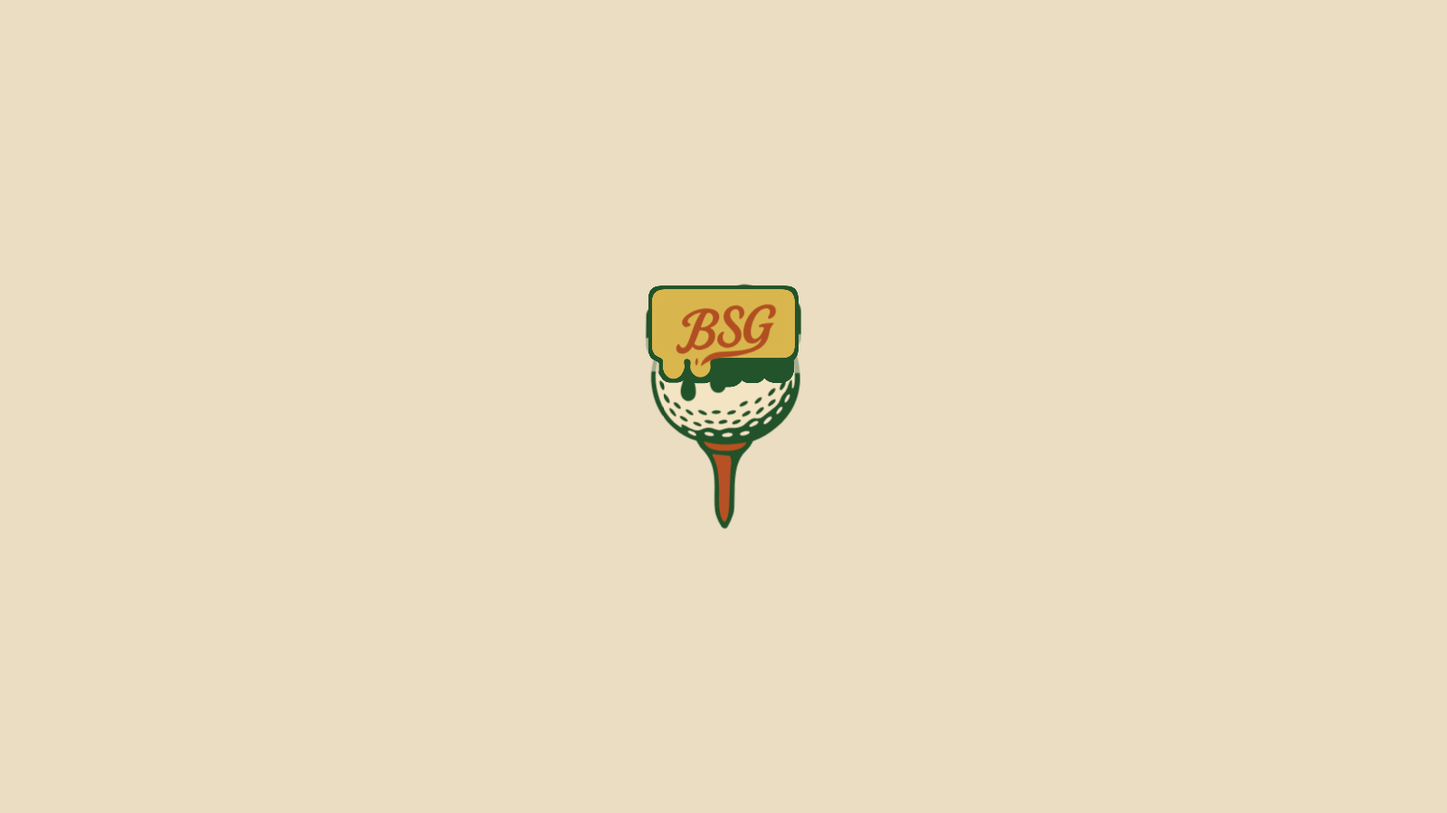
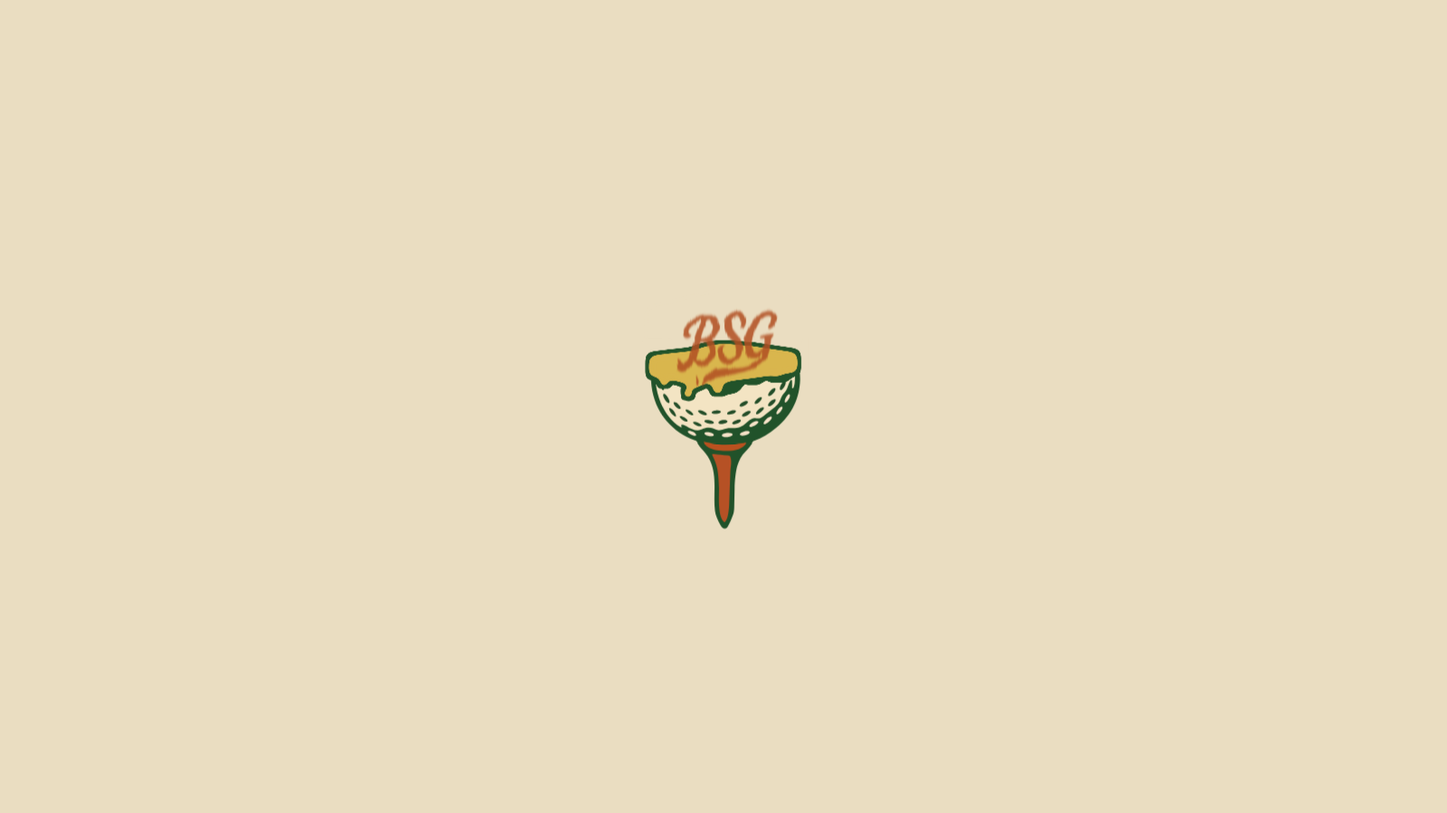
GSAP intro v3.1: no arrival bounce, BSG truly melts, gentle ending
Arrival is a smooth fade+settle (no back-ease overshoot or squash). BSG
sags/stretches downward with animated vertical smear blur and evaporates
mid-melt instead of shimmering. Final wordmark is smaller (0.44) with a
slow sine fade-up — no billboard slam. Film now ~9.8s.

Claude-Session: https://claude.ai/code/session_01XoixdVZHUDRa8j4FLVb79L

Changed region(s): [[0.4375, 0.3422, 0.5625, 0.4978]]

diff --git a/gsap/intro.html b/gsap/intro.html
@@ -30,7 +30,8 @@
     <filter id="lettersMelt" x="-40%" y="-40%" width="180%" height="180%">
       <feTurbulence type="turbulence" baseFrequency="0.012 0.03" numOctaves="2" result="n"/>
       <feDisplacementMap id="dispMap" in="SourceGraphic" in2="n" scale="0"
-        xChannelSelector="R" yChannelSelector="G"/>
+        xChannelSelector="R" yChannelSelector="G" result="disp"/>
+      <feGaussianBlur id="bsgBlur" in="disp" stdDeviation="0 0"/>
     </filter>
     <clipPath id="coatClip">
       <path id="coatWave" d="M1520 600 H1968 V1062 q-37 24 -75 0 t-75 0 t-75 0 t-75 0 t-74 0 t-74 0 Z"/>
@@ -130,7 +131,7 @@
   </g>
 
   <!-- wordmark: the sole hero of the final act, centered -->
-  <g id="wmMove" transform="translate(493.3,275) scale(0.48)" fill="#EADDC1">
+  <g id="wmMove" transform="translate(518.8,280.3) scale(0.44)" fill="#EADDC1">
     <g id="wmButter"><path d="M 259.7692,201.6514000000002 C 259.3474,210.423 260.8404,221.3208000000002 269.401,229.8479000000002 C 283.8932,244.09090000000015 307.5814,240.0436000000002 307.7691,233.65120000000002 C 307.8071,232.26930000000016 307.0431,230.79560000000015 305.9705,228.52250000000004 C 300.7264,218.46620000000007 294.5653,192.66640000000007 327.5246,163.4067 C 337.2083,155.14790000000016 349.0648,148.9996000000001 360.3872,145.2695000000001 C 386.4832,136.59890000000019 431.9107,132.24370000000022 455.989,148.4313000000002 C 480.6074,164.98160000000007 475.77,199.67420000000016 442.0003,211.3981000000001 C 421.9676,218.35260000000017 399.7689,215.72860000000014 399.7689,223.6514000000002 C 399.7689,229.30710000000022 410.2486,227.97250000000008 421.8435,236.3189000000002 C 447.5752,254.97400000000016 435.5861,297.73710000000005 396.8864,298.9090000000001 C 367.2445,299.65880000000016 355.7509,292.2759000000001 347.4643,288.6278000000002 C 351.9626,283.5458000000001 359.411,274.3628000000001 364.7764,266.65840000000003 C 384.9043,238.1418000000001 402.0758,191.4529 424.5826,169.09750000000008 C 427.4855,166.21380000000022 433.3127,162.0186000000001 428.343,158.8996000000002 C 418.6823,152.93950000000018 402.2405,156.6482000000001 390.026,166.90800000000013 C 368.1147,186.0282000000002 355.1406,210.7909000000002 342.2923,236.37760000000003 C 334.6503,251.32960000000003 323.5493,268.49350000000004 310.1372,282.2696000000001 C 282.7474,309.91020000000003 258.0199,285.6514000000002 253.7691,285.6514000000002 C 244.9392,285.67520000000013 247.1794,305.1160000000002 261.5244,316.1490000000001 C 276.8859,327.7524000000001 301.0224,324.6886000000002 316.6464,316.1813000000002 C 321.7215,313.4544000000001 326.8431,309.9896000000001 333.144,305.7605000000001 C 359.1882,322.9522000000002 405.8612,327.4131000000002 435.8472,315.6238000000001 C 446.0383,311.74440000000004 458.282,303.76840000000016 464.531,294.78970000000004 C 484.9243,265.0381000000002 472.0054,237.89750000000004 455.2534,229.55770000000007 C 453.8353,228.9380000000001 453.8591,227.9195000000002 455.2534,227.55780000000004 C 466.7066,225.12430000000018 489.7613,215.31950000000006 501.317,198.62800000000016 C 510.1121,185.5844000000002 511.3568,170.11350000000016 505.2866,156.88160000000016 C 499.1511,144.18210000000022 487.8737,136.04440000000022 475.6572,130.34030000000007 C 454.1888,120.31630000000018 427.1618,117.3778000000002 402.7691,117.65130000000022 C 365.1919,118.3072000000002 335.8077,128.00790000000006 312.1843,140.09000000000015 C 293.6679,149.34000000000015 261.5037,173.95810000000006 259.7692,201.6514000000002" fill-rule="evenodd"/>
 <path d="M 848.2442,258.8903 C 850.6298,250.9947000000002 856.1075,240.73410000000013 859.5927,235.08550000000014 C 864.4022,227.14930000000004 870.3045,221.58850000000007 875.408,218.9728 C 883.3113,215.00380000000018 890.3239,216.42560000000003 891.7047,222.55130000000008 C 893.8426,234.34000000000015 880.9319,249.50620000000004 869.1746,256.01160000000004 C 863.4268,259.2035000000001 855.6395,261.41200000000003 850.2894,261.69600000000014 C 847.6347,261.81770000000006 847.5041,261.3111000000001 848.2442,258.8903 M 685.3195,292.49530000000004 C 678.6227,293.1161000000002 669.3812,290.5131000000001 672.0987,278.5951 C 674.3426,268.71260000000007 696.1017,227.4150000000002 699.1166,221.4761000000001 C 700.8585,218.15210000000002 700.8673,218.57580000000007 706.4379,218.52980000000002 C 720.1939,218.53120000000013 745.3514,218.4036000000001 760.0694,218.39430000000016 C 761.8626,218.38120000000004 762.2586,218.50310000000013 761.021,221.06510000000003 C 753.9077,234.9299000000001 746.6956,250.58280000000013 733.8776,264.4003 C 725.4969,273.4598000000001 705.9648,290.4561000000001 685.3195,292.49530000000004 M 680.6517,198.97950000000014 C 667.9434,199.49500000000012 649.5347,195.36870000000022 649.7691,212.65130000000022 C 650.3083,220.91200000000003 658.9037,218.97710000000006 668.4024,218.97710000000006 C 670.3302,218.99880000000007 670.8212,219.4856000000002 668.9049,222.95720000000006 L 660.0427,239.3661000000002 C 654.3703,250.1777000000002 649.4428,262.009 639.9828,272.8180000000002 C 634.5822,278.89020000000005 628.4514,283.9398000000001 619.34,288.0500000000002 C 616.6324,289.1666 612.4462,290.40280000000007 608.4094,289.6491000000001 C 604.1812,288.6722000000002 601.9722,285.35390000000007 601.7769,281.36080000000015 C 601.3848,272.9773 606.9572,260.83180000000016 611.7035,250.69960000000015 C 616.758,240.2293000000002 624.5796,225.3578 629.8758,215.32070000000022 C 633.9628,207.34900000000016 634.7523,201.89380000000006 624.3242,199.26780000000008 C 619.6612,198.14070000000015 612.8331,197.3538000000001 608.381,200.80280000000016 C 601.3006,206.69680000000017 595.7062,220.08460000000014 592.1082,227.01020000000017 C 582.0508,247.15800000000013 569.9537,273.23760000000016 546.8471,288.1512 C 539.0963,293.0245000000002 528.558,294.7092 528.5112,282.14380000000006 C 528.495,273.13070000000016 537.7856,255.27420000000006 545.6591,241.14340000000016 C 550.8023,232.07370000000014 557.5762,220.5101000000002 563.2027,210.5204000000001 C 565.1566,207.04030000000012 564.8689,202.46460000000002 557.7364,199.69840000000022 C 546.4672,195.6020000000001 538.3882,202.15800000000013 531.9675,211.8497000000002 C 528.431,217.2094000000002 525.6332,221.56190000000015 521.077,228.9593000000002 C 511.2125,246.68460000000005 492.1166,277.8453000000002 497.3355,299.13210000000004 C 502.2306,317.72950000000014 522.4266,319.10810000000015 537.3249,312.58220000000006 C 552.7106,305.08310000000006 562.0181,295.4485000000002 572.5111,284.4325000000001 C 568.4777,305.3022000000001 586.0485,336.3498000000002 632.1699,298.13030000000003 C 635.1783,295.51210000000015 639.3909,291.63530000000014 641.488,289.3392000000001 C 643.4785,322.6562000000001 677.2626,319.5276000000001 697.2137,310.0083000000002 C 710.0178,303.98580000000015 724.9612,291.44990000000007 734.2965,282.6319000000001 C 733.4994,303.62530000000015 740.3136,316.5575000000001 760.3316,316.2763000000002 C 773.1386,315.9716000000001 781.7377,311.22230000000013 789.7961,306.4048 C 799.1541,300.7433000000001 808.5129,292.52380000000016 813.5813,287.9480000000001 C 817.0033,320.37660000000005 851.9984,321.65020000000004 878.1508,308.5254000000002 C 887.811,303.77600000000007 894.9623,297.90470000000005 901.6257,292.46230000000014 C 902.4069,291.92920000000004 903.4929,292.24250000000006 903.187,293.20600000000013 C 902.2694,296.1333000000002 896.0879,307.26840000000016 898.7284,312.5091000000002 C 901.2498,317.5136 912.2547,314.7785000000001 915.874,313.59640000000013 C 919.6809,312.3560000000002 922.3948,310.5373000000002 924.7518,308.0816000000002 C 930.7814,301.54140000000007 934.3281,290.8765000000001 943.4798,276.8597000000002 C 954.6109,257.7012000000002 971.2397,245.365 987.4602,231.52630000000022 C 988.3585,232.33990000000017 989.8021,233.98450000000003 992.3888,235.54050000000007 C 998.7982,239.10680000000002 1005.8343,238.91140000000019 1012.235,237.10180000000014 C 1021.7993,234.30910000000017 1027.2882999999997,227.59580000000005 1029.0112,220.84730000000013 C 1031.6047,210.49610000000007 1025.0563,199.08850000000007 1010.7689,199.65130000000022 C 1002.4265,200.24880000000007 995.8759,205.41560000000004 991.4593,209.3416000000002 C 982.2019,217.58500000000004 973.9083,225.8162000000002 965.7556,233.44990000000007 C 964.7904,234.3465000000001 963.754,233.8624000000002 964.2047,232.7179000000001 C 968.2311,223.36260000000016 978.2158,209.54420000000005 977.2849,202.83720000000017 C 976.4617,199.75930000000017 972.7027,197.14350000000013 963.769,197.14350000000013 C 958.8912,197.16850000000022 954.3682,197.71350000000007 951.5137,199.70090000000005 C 946.1577,203.81400000000008 944.0113,210.92330000000015 939.7638,219.06040000000007 C 934.4367,229.71440000000007 929.7763,239.4050000000002 922.191,249.2528000000002 C 915.5971,258.08500000000004 909.1227,265.6898000000001 898.5297,274.1073000000001 C 887.4227,282.6835000000001 875.0775,291.0108 859.6052,290.6358 C 851.3923,290.2488000000001 846.1831,285.3003000000001 846.1831,276.60450000000014 C 853.3363,276.55780000000004 863.6173,275.03840000000014 870.1999,273.2194000000002 C 889.1379,267.77210000000014 909.9156,252.87720000000013 915.4811,232.38490000000002 C 919.3598,217.3217000000002 913.6661,201.1748 892.7691,199.65130000000022 C 876.405,198.76070000000004 860.4,204.34450000000015 846.4518,215.33400000000006 C 833.5091,226.3112000000001 823.8637,238.77480000000014 818.1388,255.02100000000019 C 815.6001,262.40020000000004 815.4626,267.24710000000005 813.5793,270.53700000000003 C 812.0483,272.9947000000002 808.8089,275.4393 802.4216,280.1980000000001 C 794.7133,285.99210000000016 776.3683,296.58090000000016 767.9401,289.5422000000001 C 762.2371,284.21350000000007 766.5925,272.67520000000013 771.2147,263.07590000000005 C 778.174,248.6241 785.5809,234.19960000000015 792.8269,219.88490000000002 C 793.3272,218.9574 793.8811,218.61910000000012 795.3548,218.6328000000001 C 801.4946,218.65960000000018 813.6777,218.7831000000001 820.9236,218.66580000000022 C 824.724,218.57940000000008 828.2092,218.2962 830.5948,215.0331000000001 C 832.9156,211.69010000000003 833.7691,207.02030000000013 833.7691,203.65130000000022 C 833.5704,200.09400000000005 831.4574,198.93250000000012 827.7917,198.95850000000019 L 804.4875,199.19010000000003 C 809.2103,190.26430000000005 813.9243,182.05330000000004 817.2147,175.51570000000015 C 819.7095,170.62970000000018 820.7186,166.73940000000016 817.8454,164.39340000000016 C 814.4753,161.7378000000001 805.216,160.1786000000002 799.2388,160.7518 C 796.284,161.10580000000004 793.6747,162.10120000000006 791.3078,164.75910000000022 C 788.7648,167.6944000000001 786.2295,172.62920000000008 783.8427,176.9869000000001 C 780.0199,184.3036000000002 775.3992,192.32520000000022 771.6869,199.20230000000015 L 712.2223,199.35420000000022 C 717.8681,188.5693000000001 726.7011,173.9126000000001 727.1481,168.5286000000001 C 727.3298,164.2610000000002 724.0173,161.27360000000022 710.5031,160.70810000000006 C 706.0561,160.5558000000001 702.8402,161.16560000000004 699.7966,164.28740000000016 C 696.2905,168.04960000000005 693.4116,173.1817000000001 691.3355,176.91290000000004 C 688.0827,183.19680000000017 685.3133,188.98390000000018 680.6517,198.97950000000014" fill-rule="evenodd"/></g>
     <g id="wmSticks"><path d="M 381.8112,386.86660000000006 C 382.1862,442.2735 450.0173,457.9235000000001 428.1103,503.3686 C 420.3632,517.5497000000001 407.8327,526.1401000000001 389.5299,527.1011000000001 C 374.0236,527.7573000000001 357.3601,523.3234000000001 349.7607,505.82370000000014 C 341.7817,486.75930000000017 348.7646,466.2968000000001 366.2235,453.5210000000002 C 370.5282,450.3343000000002 376.5302,447.71090000000004 376.5067,443.9136000000001 C 376.3426,436.6169000000002 351.2186,432.9480000000001 330.9755,446.0308 C 302.9309,464.79840000000013 300.1371,506.5289 331.0129,529.6415000000001 C 355.6664,548.4865000000001 397.7371,548.6608000000001 426.9776,534.6033000000001 C 459.1973,518.9620000000001 476.689,485.1994000000002 461.4854,451.19240000000013 C 448.4169,424.1753000000001 415.7323,402.2366000000002 418.1318,374.8434000000002 C 420.2311,357.0425 436.6911,348.6119000000001 452.7213,349.7925 C 460.2767,350.3326000000002 468.3849,352.98160000000007 476.0719,360.7468000000001 C 496.11,382.1376 474.569,403.8668 485.8112,403.8668 C 506.649,403.6795000000002 525.054,365.06280000000015 498.172,343.1388000000002 C 483.8562,332.1186 462.6043,330.9529 449.2335,331.6328000000001 C 417.3117,333.60180000000014 382.233,353.1437000000001 381.8112,386.86660000000006" fill-rule="evenodd"/>
@@ -159,8 +160,8 @@
 const $$ = (s) => gsap.utils.toArray(s);
 
 gsap.set("#badgeMove", { autoAlpha: 0, scale: 0.92, transformOrigin: "50% 50%" });
-gsap.set(["#wmButter", "#wmSticks"], { autoAlpha: 0, y: 150 });
-gsap.set(".golfLetter", { autoAlpha: 0, y: 70 });
+gsap.set(["#wmButter", "#wmSticks"], { autoAlpha: 0, y: 85 });
+gsap.set(".golfLetter", { autoAlpha: 0, y: 45 });
 gsap.set(".drop", { autoAlpha: 0 });
 gsap.set("#coatWave", { y: -185 });
 gsap.set(["#pondBack", "#pondFront", "#tide"], { y: 920 });
@@ -176,11 +177,8 @@ const tl = gsap.timeline({ defaults: { ease: "power2.out" } });
 
 // ---- beat 1: arrival on cream (0 - 1.4s)
 tl.addLabel("in", 0.15)
-  .to("#badgeMove", { autoAlpha: 1, duration: 0.55, ease: "sine.out" }, "in")
-  .to("#badgeMove", { scale: 1.04, duration: 0.75, ease: "back.out(1.4)" }, "in")
-  .to("#badgeMove", { scale: 1.0, duration: 0.4 }, "in+=0.78")
-  .to("#badgeMove", { scaleY: 0.965, scaleX: 1.03, duration: 0.25, ease: "sine.inOut" }, 1.3)
-  .to("#badgeMove", { scaleY: 1, scaleX: 1, duration: 0.3, ease: "sine.out" }, 1.56);
+  .to("#badgeMove", { autoAlpha: 1, duration: 0.7, ease: "sine.out" }, "in")
+  .to("#badgeMove", { scale: 1.0, duration: 1.2, ease: "sine.out" }, "in");
 
 // ---- beat 2: the pat melts in place (1.6 - 3.4s)
 tl.addLabel("melt", 1.6)
@@ -193,9 +191,12 @@ tl.addLabel("melt", 1.6)
   .to("#coatWave", { y: 0, duration: 1.9, ease: "power1.inOut" }, "melt+=0.4")
   .to(".rRun, .gRun", { autoAlpha: 1, duration: 0.4, stagger: 0.15 }, "melt+=0.3")
   .to("#hornCover", { opacity: 1, duration: 0.5, ease: "sine.inOut" }, "melt+=0.9")
-  // BSG stays put, liquefies, dissolves
-  .to("#dispMap", { attr: { scale: 42 }, duration: 1.0, ease: "sine.in" }, "melt+=0.8")
-  .to("#bsg", { autoAlpha: 0, duration: 0.7, ease: "sine.inOut" }, "melt+=1.2");
+  // BSG melts with the butter: sags and stretches downward...
+  .to("#bsg", { scaleY: 1.9, y: 55, transformOrigin: "50% 0%", duration: 1.6, ease: "power1.in" }, "melt+=0.5")
+  .to("#dispMap", { attr: { scale: 20 }, duration: 1.2, ease: "sine.in" }, "melt+=0.5")
+  // ...smearing into liquid streaks and evaporating as it goes
+  .to("#bsgBlur", { attr: { stdDeviation: "0 16" }, duration: 1.2, ease: "sine.in" }, "melt+=0.8")
+  .to("#bsg", { autoAlpha: 0, duration: 1.0, ease: "sine.inOut" }, "melt+=1.05");
 
 // runnels slide down the ball as the coat spreads
 $$(".rRun, .gRun").forEach((r) => {
@@ -238,17 +239,17 @@ tl.addLabel("tideUp", 5.3)
   .to("#tide", { y: -85, duration: 0.9, ease: "power2.inOut" }, "tideUp");
 
 // ---- beat 5: wordmark rises alone, centered (6.5 - 8.3s)
-tl.addLabel("type", 6.5)
-  .to("#wmButter", { autoAlpha: 1, y: 0, duration: 0.65, ease: "power3.out" }, "type")
-  .to("#wmSticks", { autoAlpha: 1, y: 0, duration: 0.65, ease: "power3.out" }, "type+=0.26")
-  .to(".golfLetter", { autoAlpha: 1, y: 0, duration: 0.5, ease: "power2.out", stagger: 0.12 }, "type+=0.66");
+tl.addLabel("type", 6.7)
+  .to("#wmButter", { autoAlpha: 1, y: 0, duration: 1.35, ease: "sine.out" }, "type")
+  .to("#wmSticks", { autoAlpha: 1, y: 0, duration: 1.35, ease: "sine.out" }, "type+=0.18")
+  .to(".golfLetter", { autoAlpha: 1, y: 0, duration: 1.0, ease: "sine.out", stagger: 0.09 }, "type+=0.5");
 
 // ---- beat 6: breathing hold (8.5 - 9.4s)
-tl.to("#wmMove", { scale: 1.012, transformOrigin: "50% 50%", duration: 0.4, ease: "sine.inOut" }, 8.5)
-  .to("#wmMove", { scale: 1.0, duration: 0.4, ease: "sine.inOut" }, 8.9);
+tl.to("#wmMove", { scale: 1.007, transformOrigin: "50% 50%", duration: 0.5, ease: "sine.inOut" }, 8.8)
+  .to("#wmMove", { scale: 1.0, duration: 0.5, ease: "sine.inOut" }, 9.3);
 
 // slow camera push, whole film
-tl.to("svg", { scale: 1.0, duration: 9.4, ease: "sine.out" }, 0);
+tl.to("svg", { scale: 1.0, duration: 9.8, ease: "sine.out" }, 0);
 
 // reduced motion: land on the finished lockup immediately
 if (window.matchMedia("(prefers-reduced-motion: reduce)").matches) {

diff --git a/gsap/intro_artifact.html b/gsap/intro_artifact.html
@@ -24,7 +24,8 @@
     <filter id="lettersMelt" x="-40%" y="-40%" width="180%" height="180%">
       <feTurbulence type="turbulence" baseFrequency="0.012 0.03" numOctaves="2" result="n"/>
       <feDisplacementMap id="dispMap" in="SourceGraphic" in2="n" scale="0"
-        xChannelSelector="R" yChannelSelector="G"/>
+        xChannelSelector="R" yChannelSelector="G" result="disp"/>
+      <feGaussianBlur id="bsgBlur" in="disp" stdDeviation="0 0"/>
     </filter>
     <clipPath id="coatClip">
       <path id="coatWave" d="M1520 600 H1968 V1062 q-37 24 -75 0 t-75 0 t-75 0 t-75 0 t-74 0 t-74 0 Z"/>
@@ -124,7 +125,7 @@
   </g>
 
   <!-- wordmark: the sole hero of the final act, centered -->
-  <g id="wmMove" transform="translate(493.3,275) scale(0.48)" fill="#EADDC1">
+  <g id="wmMove" transform="translate(518.8,280.3) scale(0.44)" fill="#EADDC1">
     <g id="wmButter"><path d="M 259.7692,201.6514000000002 C 259.3474,210.423 260.8404,221.3208000000002 269.401,229.8479000000002 C 283.8932,244.09090000000015 307.5814,240.0436000000002 307.7691,233.65120000000002 C 307.8071,232.26930000000016 307.0431,230.79560000000015 305.9705,228.52250000000004 C 300.7264,218.46620000000007 294.5653,192.66640000000007 327.5246,163.4067 C 337.2083,155.14790000000016 349.0648,148.9996000000001 360.3872,145.2695000000001 C 386.4832,136.59890000000019 431.9107,132.24370000000022 455.989,148.4313000000002 C 480.6074,164.98160000000007 475.77,199.67420000000016 442.0003,211.3981000000001 C 421.9676,218.35260000000017 399.7689,215.72860000000014 399.7689,223.6514000000002 C 399.7689,229.30710000000022 410.2486,227.97250000000008 421.8435,236.3189000000002 C 447.5752,254.97400000000016 435.5861,297.73710000000005 396.8864,298.9090000000001 C 367.2445,299.65880000000016 355.7509,292.2759000000001 347.4643,288.6278000000002 C 351.9626,283.5458000000001 359.411,274.3628000000001 364.7764,266.65840000000003 C 384.9043,238.1418000000001 402.0758,191.4529 424.5826,169.09750000000008 C 427.4855,166.21380000000022 433.3127,162.0186000000001 428.343,158.8996000000002 C 418.6823,152.93950000000018 402.2405,156.6482000000001 390.026,166.90800000000013 C 368.1147,186.0282000000002 355.1406,210.7909000000002 342.2923,236.37760000000003 C 334.6503,251.32960000000003 323.5493,268.49350000000004 310.1372,282.2696000000001 C 282.7474,309.91020000000003 258.0199,285.6514000000002 253.7691,285.6514000000002 C 244.9392,285.67520000000013 247.1794,305.1160000000002 261.5244,316.1490000000001 C 276.8859,327.7524000000001 301.0224,324.6886000000002 316.6464,316.1813000000002 C 321.7215,313.4544000000001 326.8431,309.9896000000001 333.144,305.7605000000001 C 359.1882,322.9522000000002 405.8612,327.4131000000002 435.8472,315.6238000000001 C 446.0383,311.74440000000004 458.282,303.76840000000016 464.531,294.78970000000004 C 484.9243,265.0381000000002 472.0054,237.89750000000004 455.2534,229.55770000000007 C 453.8353,228.9380000000001 453.8591,227.9195000000002 455.2534,227.55780000000004 C 466.7066,225.12430000000018 489.7613,215.31950000000006 501.317,198.62800000000016 C 510.1121,185.5844000000002 511.3568,170.11350000000016 505.2866,156.88160000000016 C 499.1511,144.18210000000022 487.8737,136.04440000000022 475.6572,130.34030000000007 C 454.1888,120.31630000000018 427.1618,117.3778000000002 402.7691,117.65130000000022 C 365.1919,118.3072000000002 335.8077,128.00790000000006 312.1843,140.09000000000015 C 293.6679,149.34000000000015 261.5037,173.95810000000006 259.7692,201.6514000000002" fill-rule="evenodd"/>
 <path d="M 848.2442,258.8903 C 850.6298,250.9947000000002 856.1075,240.73410000000013 859.5927,235.08550000000014 C 864.4022,227.14930000000004 870.3045,221.58850000000007 875.408,218.9728 C 883.3113,215.00380000000018 890.3239,216.42560000000003 891.7047,222.55130000000008 C 893.8426,234.34000000000015 880.9319,249.50620000000004 869.1746,256.01160000000004 C 863.4268,259.2035000000001 855.6395,261.41200000000003 850.2894,261.69600000000014 C 847.6347,261.81770000000006 847.5041,261.3111000000001 848.2442,258.8903 M 685.3195,292.49530000000004 C 678.6227,293.1161000000002 669.3812,290.5131000000001 672.0987,278.5951 C 674.3426,268.71260000000007 696.1017,227.4150000000002 699.1166,221.4761000000001 C 700.8585,218.15210000000002 700.8673,218.57580000000007 706.4379,218.52980000000002 C 720.1939,218.53120000000013 745.3514,218.4036000000001 760.0694,218.39430000000016 C 761.8626,218.38120000000004 762.2586,218.50310000000013 761.021,221.06510000000003 C 753.9077,234.9299000000001 746.6956,250.58280000000013 733.8776,264.4003 C 725.4969,273.4598000000001 705.9648,290.4561000000001 685.3195,292.49530000000004 M 680.6517,198.97950000000014 C 667.9434,199.49500000000012 649.5347,195.36870000000022 649.7691,212.65130000000022 C 650.3083,220.91200000000003 658.9037,218.97710000000006 668.4024,218.97710000000006 C 670.3302,218.99880000000007 670.8212,219.4856000000002 668.9049,222.95720000000006 L 660.0427,239.3661000000002 C 654.3703,250.1777000000002 649.4428,262.009 639.9828,272.8180000000002 C 634.5822,278.89020000000005 628.4514,283.9398000000001 619.34,288.0500000000002 C 616.6324,289.1666 612.4462,290.40280000000007 608.4094,289.6491000000001 C 604.1812,288.6722000000002 601.9722,285.35390000000007 601.7769,281.36080000000015 C 601.3848,272.9773 606.9572,260.83180000000016 611.7035,250.69960000000015 C 616.758,240.2293000000002 624.5796,225.3578 629.8758,215.32070000000022 C 633.9628,207.34900000000016 634.7523,201.89380000000006 624.3242,199.26780000000008 C 619.6612,198.14070000000015 612.8331,197.3538000000001 608.381,200.80280000000016 C 601.3006,206.69680000000017 595.7062,220.08460000000014 592.1082,227.01020000000017 C 582.0508,247.15800000000013 569.9537,273.23760000000016 546.8471,288.1512 C 539.0963,293.0245000000002 528.558,294.7092 528.5112,282.14380000000006 C 528.495,273.13070000000016 537.7856,255.27420000000006 545.6591,241.14340000000016 C 550.8023,232.07370000000014 557.5762,220.5101000000002 563.2027,210.5204000000001 C 565.1566,207.04030000000012 564.8689,202.46460000000002 557.7364,199.69840000000022 C 546.4672,195.6020000000001 538.3882,202.15800000000013 531.9675,211.8497000000002 C 528.431,217.2094000000002 525.6332,221.56190000000015 521.077,228.9593000000002 C 511.2125,246.68460000000005 492.1166,277.8453000000002 497.3355,299.13210000000004 C 502.2306,317.72950000000014 522.4266,319.10810000000015 537.3249,312.58220000000006 C 552.7106,305.08310000000006 562.0181,295.4485000000002 572.5111,284.4325000000001 C 568.4777,305.3022000000001 586.0485,336.3498000000002 632.1699,298.13030000000003 C 635.1783,295.51210000000015 639.3909,291.63530000000014 641.488,289.3392000000001 C 643.4785,322.6562000000001 677.2626,319.5276000000001 697.2137,310.0083000000002 C 710.0178,303.98580000000015 724.9612,291.44990000000007 734.2965,282.6319000000001 C 733.4994,303.62530000000015 740.3136,316.5575000000001 760.3316,316.2763000000002 C 773.1386,315.9716000000001 781.7377,311.22230000000013 789.7961,306.4048 C 799.1541,300.7433000000001 808.5129,292.52380000000016 813.5813,287.9480000000001 C 817.0033,320.37660000000005 851.9984,321.65020000000004 878.1508,308.5254000000002 C 887.811,303.77600000000007 894.9623,297.90470000000005 901.6257,292.46230000000014 C 902.4069,291.92920000000004 903.4929,292.24250000000006 903.187,293.20600000000013 C 902.2694,296.1333000000002 896.0879,307.26840000000016 898.7284,312.5091000000002 C 901.2498,317.5136 912.2547,314.7785000000001 915.874,313.59640000000013 C 919.6809,312.3560000000002 922.3948,310.5373000000002 924.7518,308.0816000000002 C 930.7814,301.54140000000007 934.3281,290.8765000000001 943.4798,276.8597000000002 C 954.6109,257.7012000000002 971.2397,245.365 987.4602,231.52630000000022 C 988.3585,232.33990000000017 989.8021,233.98450000000003 992.3888,235.54050000000007 C 998.7982,239.10680000000002 1005.8343,238.91140000000019 1012.235,237.10180000000014 C 1021.7993,234.30910000000017 1027.2882999999997,227.59580000000005 1029.0112,220.84730000000013 C 1031.6047,210.49610000000007 1025.0563,199.08850000000007 1010.7689,199.65130000000022 C 1002.4265,200.24880000000007 995.8759,205.41560000000004 991.4593,209.3416000000002 C 982.2019,217.58500000000004 973.9083,225.8162000000002 965.7556,233.44990000000007 C 964.7904,234.3465000000001 963.754,233.8624000000002 964.2047,232.7179000000001 C 968.2311,223.36260000000016 978.2158,209.54420000000005 977.2849,202.83720000000017 C 976.4617,199.75930000000017 972.7027,197.14350000000013 963.769,197.14350000000013 C 958.8912,197.16850000000022 954.3682,197.71350000000007 951.5137,199.70090000000005 C 946.1577,203.81400000000008 944.0113,210.92330000000015 939.7638,219.06040000000007 C 934.4367,229.71440000000007 929.7763,239.4050000000002 922.191,249.2528000000002 C 915.5971,258.08500000000004 909.1227,265.6898000000001 898.5297,274.1073000000001 C 887.4227,282.6835000000001 875.0775,291.0108 859.6052,290.6358 C 851.3923,290.2488000000001 846.1831,285.3003000000001 846.1831,276.60450000000014 C 853.3363,276.55780000000004 863.6173,275.03840000000014 870.1999,273.2194000000002 C 889.1379,267.77210000000014 909.9156,252.87720000000013 915.4811,232.38490000000002 C 919.3598,217.3217000000002 913.6661,201.1748 892.7691,199.65130000000022 C 876.405,198.76070000000004 860.4,204.34450000000015 846.4518,215.33400000000006 C 833.5091,226.3112000000001 823.8637,238.77480000000014 818.1388,255.02100000000019 C 815.6001,262.40020000000004 815.4626,267.24710000000005 813.5793,270.53700000000003 C 812.0483,272.9947000000002 808.8089,275.4393 802.4216,280.1980000000001 C 794.7133,285.99210000000016 776.3683,296.58090000000016 767.9401,289.5422000000001 C 762.2371,284.21350000000007 766.5925,272.67520000000013 771.2147,263.07590000000005 C 778.174,248.6241 785.5809,234.19960000000015 792.8269,219.88490000000002 C 793.3272,218.9574 793.8811,218.61910000000012 795.3548,218.6328000000001 C 801.4946,218.65960000000018 813.6777,218.7831000000001 820.9236,218.66580000000022 C 824.724,218.57940000000008 828.2092,218.2962 830.5948,215.0331000000001 C 832.9156,211.69010000000003 833.7691,207.02030000000013 833.7691,203.65130000000022 C 833.5704,200.09400000000005 831.4574,198.93250000000012 827.7917,198.95850000000019 L 804.4875,199.19010000000003 C 809.2103,190.26430000000005 813.9243,182.05330000000004 817.2147,175.51570000000015 C 819.7095,170.62970000000018 820.7186,166.73940000000016 817.8454,164.39340000000016 C 814.4753,161.7378000000001 805.216,160.1786000000002 799.2388,160.7518 C 796.284,161.10580000000004 793.6747,162.10120000000006 791.3078,164.75910000000022 C 788.7648,167.6944000000001 786.2295,172.62920000000008 783.8427,176.9869000000001 C 780.0199,184.3036000000002 775.3992,192.32520000000022 771.6869,199.20230000000015 L 712.2223,199.35420000000022 C 717.8681,188.5693000000001 726.7011,173.9126000000001 727.1481,168.5286000000001 C 727.3298,164.2610000000002 724.0173,161.27360000000022 710.5031,160.70810000000006 C 706.0561,160.5558000000001 702.8402,161.16560000000004 699.7966,164.28740000000016 C 696.2905,168.04960000000005 693.4116,173.1817000000001 691.3355,176.91290000000004 C 688.0827,183.19680000000017 685.3133,188.98390000000018 680.6517,198.97950000000014" fill-rule="evenodd"/></g>
     <g id="wmSticks"><path d="M 381.8112,386.86660000000006 C 382.1862,442.2735 450.0173,457.9235000000001 428.1103,503.3686 C 420.3632,517.5497000000001 407.8327,526.1401000000001 389.5299,527.1011000000001 C 374.0236,527.7573000000001 357.3601,523.3234000000001 349.7607,505.82370000000014 C 341.7817,486.75930000000017 348.7646,466.2968000000001 366.2235,453.5210000000002 C 370.5282,450.3343000000002 376.5302,447.71090000000004 376.5067,443.9136000000001 C 376.3426,436.6169000000002 351.2186,432.9480000000001 330.9755,446.0308 C 302.9309,464.79840000000013 300.1371,506.5289 331.0129,529.6415000000001 C 355.6664,548.4865000000001 397.7371,548.6608000000001 426.9776,534.6033000000001 C 459.1973,518.9620000000001 476.689,485.1994000000002 461.4854,451.19240000000013 C 448.4169,424.1753000000001 415.7323,402.2366000000002 418.1318,374.8434000000002 C 420.2311,357.0425 436.6911,348.6119000000001 452.7213,349.7925 C 460.2767,350.3326000000002 468.3849,352.98160000000007 476.0719,360.7468000000001 C 496.11,382.1376 474.569,403.8668 485.8112,403.8668 C 506.649,403.6795000000002 525.054,365.06280000000015 498.172,343.1388000000002 C 483.8562,332.1186 462.6043,330.9529 449.2335,331.6328000000001 C 417.3117,333.60180000000014 382.233,353.1437000000001 381.8112,386.86660000000006" fill-rule="evenodd"/>
@@ -153,8 +154,8 @@
 const $$ = (s) => gsap.utils.toArray(s);
 
 gsap.set("#badgeMove", { autoAlpha: 0, scale: 0.92, transformOrigin: "50% 50%" });
-gsap.set(["#wmButter", "#wmSticks"], { autoAlpha: 0, y: 150 });
-gsap.set(".golfLetter", { autoAlpha: 0, y: 70 });
+gsap.set(["#wmButter", "#wmSticks"], { autoAlpha: 0, y: 85 });
+gsap.set(".golfLetter", { autoAlpha: 0, y: 45 });
 gsap.set(".drop", { autoAlpha: 0 });
 gsap.set("#coatWave", { y: -185 });
 gsap.set(["#pondBack", "#pondFront", "#tide"], { y: 920 });
@@ -170,11 +171,8 @@ const tl = gsap.timeline({ defaults: { ease: "power2.out" } });
 
 // ---- beat 1: arrival on cream (0 - 1.4s)
 tl.addLabel("in", 0.15)
-  .to("#badgeMove", { autoAlpha: 1, duration: 0.55, ease: "sine.out" }, "in")
-  .to("#badgeMove", { scale: 1.04, duration: 0.75, ease: "back.out(1.4)" }, "in")
-  .to("#badgeMove", { scale: 1.0, duration: 0.4 }, "in+=0.78")
-  .to("#badgeMove", { scaleY: 0.965, scaleX: 1.03, duration: 0.25, ease: "sine.inOut" }, 1.3)
-  .to("#badgeMove", { scaleY: 1, scaleX: 1, duration: 0.3, ease: "sine.out" }, 1.56);
+  .to("#badgeMove", { autoAlpha: 1, duration: 0.7, ease: "sine.out" }, "in")
+  .to("#badgeMove", { scale: 1.0, duration: 1.2, ease: "sine.out" }, "in");
 
 // ---- beat 2: the pat melts in place (1.6 - 3.4s)
 tl.addLabel("melt", 1.6)
@@ -187,9 +185,12 @@ tl.addLabel("melt", 1.6)
   .to("#coatWave", { y: 0, duration: 1.9, ease: "power1.inOut" }, "melt+=0.4")
   .to(".rRun, .gRun", { autoAlpha: 1, duration: 0.4, stagger: 0.15 }, "melt+=0.3")
   .to("#hornCover", { opacity: 1, duration: 0.5, ease: "sine.inOut" }, "melt+=0.9")
-  // BSG stays put, liquefies, dissolves
-  .to("#dispMap", { attr: { scale: 42 }, duration: 1.0, ease: "sine.in" }, "melt+=0.8")
-  .to("#bsg", { autoAlpha: 0, duration: 0.7, ease: "sine.inOut" }, "melt+=1.2");
+  // BSG melts with the butter: sags and stretches downward...
+  .to("#bsg", { scaleY: 1.9, y: 55, transformOrigin: "50% 0%", duration: 1.6, ease: "power1.in" }, "melt+=0.5")
+  .to("#dispMap", { attr: { scale: 20 }, duration: 1.2, ease: "sine.in" }, "melt+=0.5")
+  // ...smearing into liquid streaks and evaporating as it goes
+  .to("#bsgBlur", { attr: { stdDeviation: "0 16" }, duration: 1.2, ease: "sine.in" }, "melt+=0.8")
+  .to("#bsg", { autoAlpha: 0, duration: 1.0, ease: "sine.inOut" }, "melt+=1.05");
 
 // runnels slide down the ball as the coat spreads
 $$(".rRun, .gRun").forEach((r) => {
@@ -232,17 +233,17 @@ tl.addLabel("tideUp", 5.3)
   .to("#tide", { y: -85, duration: 0.9, ease: "power2.inOut" }, "tideUp");
 
 // ---- beat 5: wordmark rises alone, centered (6.5 - 8.3s)
-tl.addLabel("type", 6.5)
-  .to("#wmButter", { autoAlpha: 1, y: 0, duration: 0.65, ease: "power3.out" }, "type")
-  .to("#wmSticks", { autoAlpha: 1, y: 0, duration: 0.65, ease: "power3.out" }, "type+=0.26")
-  .to(".golfLetter", { autoAlpha: 1, y: 0, duration: 0.5, ease: "power2.out", stagger: 0.12 }, "type+=0.66");
+tl.addLabel("type", 6.7)
+  .to("#wmButter", { autoAlpha: 1, y: 0, duration: 1.35, ease: "sine.out" }, "type")
+  .to("#wmSticks", { autoAlpha: 1, y: 0, duration: 1.35, ease: "sine.out" }, "type+=0.18")
+  .to(".golfLetter", { autoAlpha: 1, y: 0, duration: 1.0, ease: "sine.out", stagger: 0.09 }, "type+=0.5");
 
 // ---- beat 6: breathing hold (8.5 - 9.4s)
-tl.to("#wmMove", { scale: 1.012, transformOrigin: "50% 50%", duration: 0.4, ease: "sine.inOut" }, 8.5)
-  .to("#wmMove", { scale: 1.0, duration: 0.4, ease: "sine.inOut" }, 8.9);
+tl.to("#wmMove", { scale: 1.007, transformOrigin: "50% 50%", duration: 0.5, ease: "sine.inOut" }, 8.8)
+  .to("#wmMove", { scale: 1.0, duration: 0.5, ease: "sine.inOut" }, 9.3);
 
 // slow camera push, whole film
-tl.to("svg", { scale: 1.0, duration: 9.4, ease: "sine.out" }, 0);
+tl.to("svg", { scale: 1.0, duration: 9.8, ease: "sine.out" }, 0);
 
 // reduced motion: land on the finished lockup immediately
 if (window.matchMedia("(prefers-reduced-motion: reduce)").matches) {

diff --git a/tools/build_gsap_intro.py b/tools/build_gsap_intro.py
@@ -89,7 +89,8 @@ html = f"""<!doctype html>
     <filter id="lettersMelt" x="-40%" y="-40%" width="180%" height="180%">
       <feTurbulence type="turbulence" baseFrequency="0.012 0.03" numOctaves="2" result="n"/>
       <feDisplacementMap id="dispMap" in="SourceGraphic" in2="n" scale="0"
-        xChannelSelector="R" yChannelSelector="G"/>
+        xChannelSelector="R" yChannelSelector="G" result="disp"/>
+      <feGaussianBlur id="bsgBlur" in="disp" stdDeviation="0 0"/>
     </filter>
     <clipPath id="coatClip">
       <path id="coatWave" d="M1520 600 H1968 V1062 q-37 24 -75 0 t-75 0 t-75 0 t-75 0 t-74 0 t-74 0 Z"/>
@@ -137,7 +138,7 @@ html = f"""<!doctype html>
   </g>
 
   <!-- wordmark: the sole hero of the final act, centered -->
-  <g id="wmMove" transform="translate(493.3,275) scale(0.48)" fill="{CREAM}">
+  <g id="wmMove" transform="translate(518.8,280.3) scale(0.44)" fill="{CREAM}">
     <g id="wmButter">{paths("wm_butter", keep_fill=False)}</g>
     <g id="wmSticks">{paths("wm_sticks", keep_fill=False)}</g>
     <g id="wmGolf">{paths("wm_golf", keep_fill=False, cls="golfLetter")}</g>
@@ -150,8 +151,8 @@ html = f"""<!doctype html>
 const $$ = (s) => gsap.utils.toArray(s);
 
 gsap.set("#badgeMove", {{ autoAlpha: 0, scale: 0.92, transformOrigin: "50% 50%" }});
-gsap.set(["#wmButter", "#wmSticks"], {{ autoAlpha: 0, y: 150 }});
-gsap.set(".golfLetter", {{ autoAlpha: 0, y: 70 }});
+gsap.set(["#wmButter", "#wmSticks"], {{ autoAlpha: 0, y: 85 }});
+gsap.set(".golfLetter", {{ autoAlpha: 0, y: 45 }});
 gsap.set(".drop", {{ autoAlpha: 0 }});
 gsap.set("#coatWave", {{ y: -185 }});
 gsap.set(["#pondBack", "#pondFront", "#tide"], {{ y: 920 }});
@@ -167,11 +168,8 @@ const tl = gsap.timeline({{ defaults: {{ ease: "power2.out" }} }});
 
 // ---- beat 1: arrival on cream (0 - 1.4s)
 tl.addLabel("in", 0.15)
-  .to("#badgeMove", {{ autoAlpha: 1, duration: 0.55, ease: "sine.out" }}, "in")
-  .to("#badgeMove", {{ scale: 1.04, duration: 0.75, ease: "back.out(1.4)" }}, "in")
-  .to("#badgeMove", {{ scale: 1.0, duration: 0.4 }}, "in+=0.78")
-  .to("#badgeMove", {{ scaleY: 0.965, scaleX: 1.03, duration: 0.25, ease: "sine.inOut" }}, 1.3)
-  .to("#badgeMove", {{ scaleY: 1, scaleX: 1, duration: 0.3, ease: "sine.out" }}, 1.56);
+  .to("#badgeMove", {{ autoAlpha: 1, duration: 0.7, ease: "sine.out" }}, "in")
+  .to("#badgeMove", {{ scale: 1.0, duration: 1.2, ease: "sine.out" }}, "in");
 
 // ---- beat 2: the pat melts in place (1.6 - 3.4s)
 tl.addLabel("melt", 1.6)
@@ -184,9 +182,12 @@ tl.addLabel("melt", 1.6)
   .to("#coatWave", {{ y: 0, duration: 1.9, ease: "power1.inOut" }}, "melt+=0.4")
   .to(".rRun, .gRun", {{ autoAlpha: 1, duration: 0.4, stagger: 0.15 }}, "melt+=0.3")
   .to("#hornCover", {{ opacity: 1, duration: 0.5, ease: "sine.inOut" }}, "melt+=0.9")
-  // BSG stays put, liquefies, dissolves
-  .to("#dispMap", {{ attr: {{ scale: 42 }}, duration: 1.0, ease: "sine.in" }}, "melt+=0.8")
-  .to("#bsg", {{ autoAlpha: 0, duration: 0.7, ease: "sine.inOut" }}, "melt+=1.2");
+  // BSG melts with the butter: sags and stretches downward...
+  .to("#bsg", {{ scaleY: 1.9, y: 55, transformOrigin: "50% 0%", duration: 1.6, ease: "power1.in" }}, "melt+=0.5")
+  .to("#dispMap", {{ attr: {{ scale: 20 }}, duration: 1.2, ease: "sine.in" }}, "melt+=0.5")
+  // ...smearing into liquid streaks and evaporating as it goes
+  .to("#bsgBlur", {{ attr: {{ stdDeviation: "0 16" }}, duration: 1.2, ease: "sine.in" }}, "melt+=0.8")
+  .to("#bsg", {{ autoAlpha: 0, duration: 1.0, ease: "sine.inOut" }}, "melt+=1.05");
 
 // runnels slide down the ball as the coat spreads
 $$(".rRun, .gRun").forEach((r) => {{
@@ -229,17 +230,17 @@ tl.addLabel("tideUp", 5.3)
   .to("#tide", {{ y: -85, duration: 0.9, ease: "power2.inOut" }}, "tideUp");
 
 // ---- beat 5: wordmark rises alone, centered (6.5 - 8.3s)
-tl.addLabel("type", 6.5)
-  .to("#wmButter", {{ autoAlpha: 1, y: 0, duration: 0.65, ease: "power3.out" }}, "type")
-  .to("#wmSticks", {{ autoAlpha: 1, y: 0, duration: 0.65, ease: "power3.out" }}, "type+=0.26")
-  .to(".golfLetter", {{ autoAlpha: 1, y: 0, duration: 0.5, ease: "power2.out", stagger: 0.12 }}, "type+=0.66");
+tl.addLabel("type", 6.7)
+  .to("#wmButter", {{ autoAlpha: 1, y: 0, duration: 1.35, ease: "sine.out" }}, "type")
+  .to("#wmSticks", {{ autoAlpha: 1, y: 0, duration: 1.35, ease: "sine.out" }}, "type+=0.18")
+  .to(".golfLetter", {{ autoAlpha: 1, y: 0, duration: 1.0, ease: "sine.out", stagger: 0.09 }}, "type+=0.5");
 
 // ---- beat 6: breathing hold (8.5 - 9.4s)
-tl.to("#wmMove", {{ scale: 1.012, transformOrigin: "50% 50%", duration: 0.4, ease: "sine.inOut" }}, 8.5)
-  .to("#wmMove", {{ scale: 1.0, duration: 0.4, ease: "sine.inOut" }}, 8.9);
+tl.to("#wmMove", {{ scale: 1.007, transformOrigin: "50% 50%", duration: 0.5, ease: "sine.inOut" }}, 8.8)
+  .to("#wmMove", {{ scale: 1.0, duration: 0.5, ease: "sine.inOut" }}, 9.3);
 
 // slow camera push, whole film
-tl.to("svg", {{ scale: 1.0, duration: 9.4, ease: "sine.out" }}, 0);
+tl.to("svg", {{ scale: 1.0, duration: 9.8, ease: "sine.out" }}, 0);
 
 // reduced motion: land on the finished lockup immediately
 if (window.matchMedia("(prefers-reduced-motion: reduce)").matches) {{
